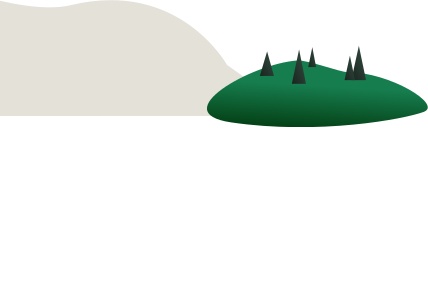
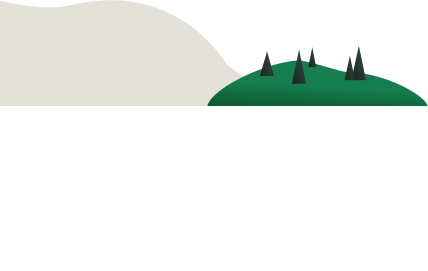
background update

diff --git a/src/components/Home.tsx b/src/components/Home.tsx
@@ -20,11 +20,11 @@ const useStyles = makeStyles((theme: Theme) => ({
   main: {
     [theme.breakpoints.down('xl')]: {
       background:
-        'url(/assets/home-bg-right-layer-z4.png) no-repeat 879px 100%/auto 285px, ' +
+        'url(/assets/home-bg-right-layer-z4.png) no-repeat 753px 100%/auto 285px, ' +
         'url(/assets/home-bg-left-layer-z4.png) no-repeat 0 100%/auto 295px, ' +
         'url(/assets/home-bg-water-z2.png) repeat-x 0 100%/auto 180px, ' +
-        'url(/assets/home-bg-left-z4.png) no-repeat 0 100%/auto 292px, ' +
-        'url(/assets/home-bg-right-z3.png) no-repeat 1012px 100%/auto 400px, ' +
+        'url(/assets/home-bg-left-z4.png) no-repeat 0 100%/auto 295px, ' +
+        'url(/assets/home-bg-right-z3.png) no-repeat 911px 100%/auto 400px, ' +
         'url(/assets/background.png) no-repeat 100% 0/90% 633px, ' +
         'linear-gradient(180deg, #FBF9F9 0%, #EFF5EF 100%) no-repeat 0 0/auto',
     },
@@ -33,7 +33,7 @@ const useStyles = makeStyles((theme: Theme) => ({
         'url(/assets/home-bg-right-layer-z4.png) no-repeat 100% 100%/auto 285px, ' +
         'url(/assets/home-bg-left-layer-z4.png) no-repeat 0 100%/auto 295px, ' +
         'url(/assets/home-bg-water-z2.png) repeat-x 0 100%/auto 180px, ' +
-        'url(/assets/home-bg-left-z4.png) no-repeat 0 100%/auto 292px, ' +
+        'url(/assets/home-bg-left-z4.png) no-repeat 0 100%/auto 295px, ' +
         'url(/assets/home-bg-right-z3.png) no-repeat 100% 100%/auto 400px, ' +
         'url(/assets/background.png) no-repeat 100% 0/90% 633px, ' +
         'linear-gradient(180deg, #FBF9F9 0%, #EFF5EF 100%) no-repeat 0 0/auto',
